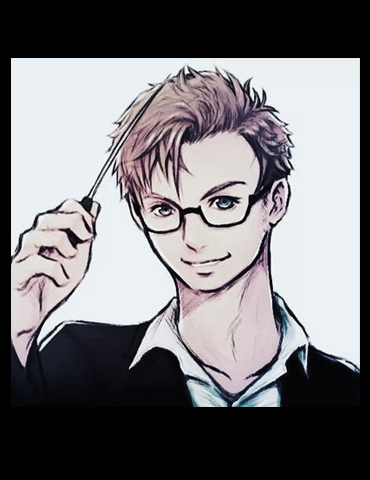
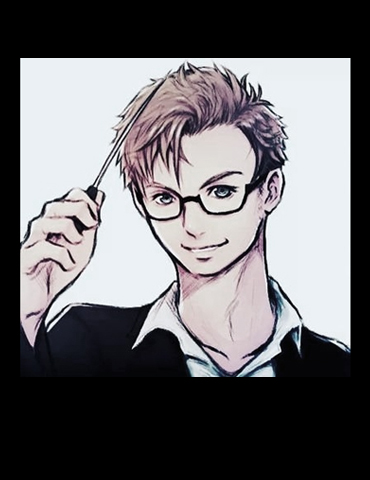
Michail

Changed region(s): [[0.0297, 0.0938, 0.9811, 0.875], [0.1784, 0.7812, 0.2081, 0.8125]]

diff --git a/about.html b/about.html
@@ -189,13 +189,15 @@
 				</div>
 			</div>
 			<div class="col-lg-0 col-md-10">
-				<div class="team__item set-bg" data-setbg="img/team/team-3.jpg">
+				<div class="team__item set-bg" data-setbg="img/team/team-4.jpg">
 					<div class="team__text">
 						<div class="team__title">
-							<h5>Josh Kashdan</h5>
-							<span>Music</span>
+							<h5>Michail K.</h5>
+							<span>Sound Effects</span>
 						</div>
-						<p><b>Tasks:</b> <br>- Music<br><b>Portfolio:</b><br><a href="https://www.kashdanmusic.com" target = "_blank">- Josh's website</a> </p>
+						<p>"The master has failed more times than the beginner has even tried."</p>
+						<p><b>Tasks:</b> <br>- Sound Effects<br>- Audio Design</p>
+						<p><b>Favourite game:</b> Dungeon Keeper</p>
 					</div>
 				</div>
 			</div>
@@ -210,7 +212,7 @@
 			<div class="col-md-12 text-center">
 				<div class="footer-info">
 					<img src="img/logo.png" alt=""/>
-					<p><i>"Small games for people with high standards."</i></p>
+					<p><i>"Just one more hour and I will go to sleep"</i></p>
 				</div>
 			</div>
 		</div>

diff --git a/css/bootstrap.min.css b/css/bootstrap.min.css
@@ -536,10 +536,18 @@ pre code {
 }
 
  .row__team {
-   display: inline-flex;
-   -ms-flex-wrap: nowrap;
+
    width: 75%;
    padding-bottom: 200px;
+ }
+
+ @media (min-width:1200px) {
+   .row__team {
+     display: inline-flex;
+     -ms-flex-wrap: nowrap;
+     width: 75%;
+     padding-bottom: 200px;
+   }
  }
 .no-gutters {
   margin-right: 0;

diff --git a/css/style.css b/css/style.css
@@ -609,8 +609,8 @@ ul, ol {
   border: 3px solid #82a8a5;
   box-shadow: 7px 7px rgba(0,0,0,.10);
   transition: all .4s ease;
-  height: 420px;
-  width: 350px;
+  height: 470px;
+  width: 360px;
   position: relative;
   z-index: 1;
   margin-bottom: 30px
